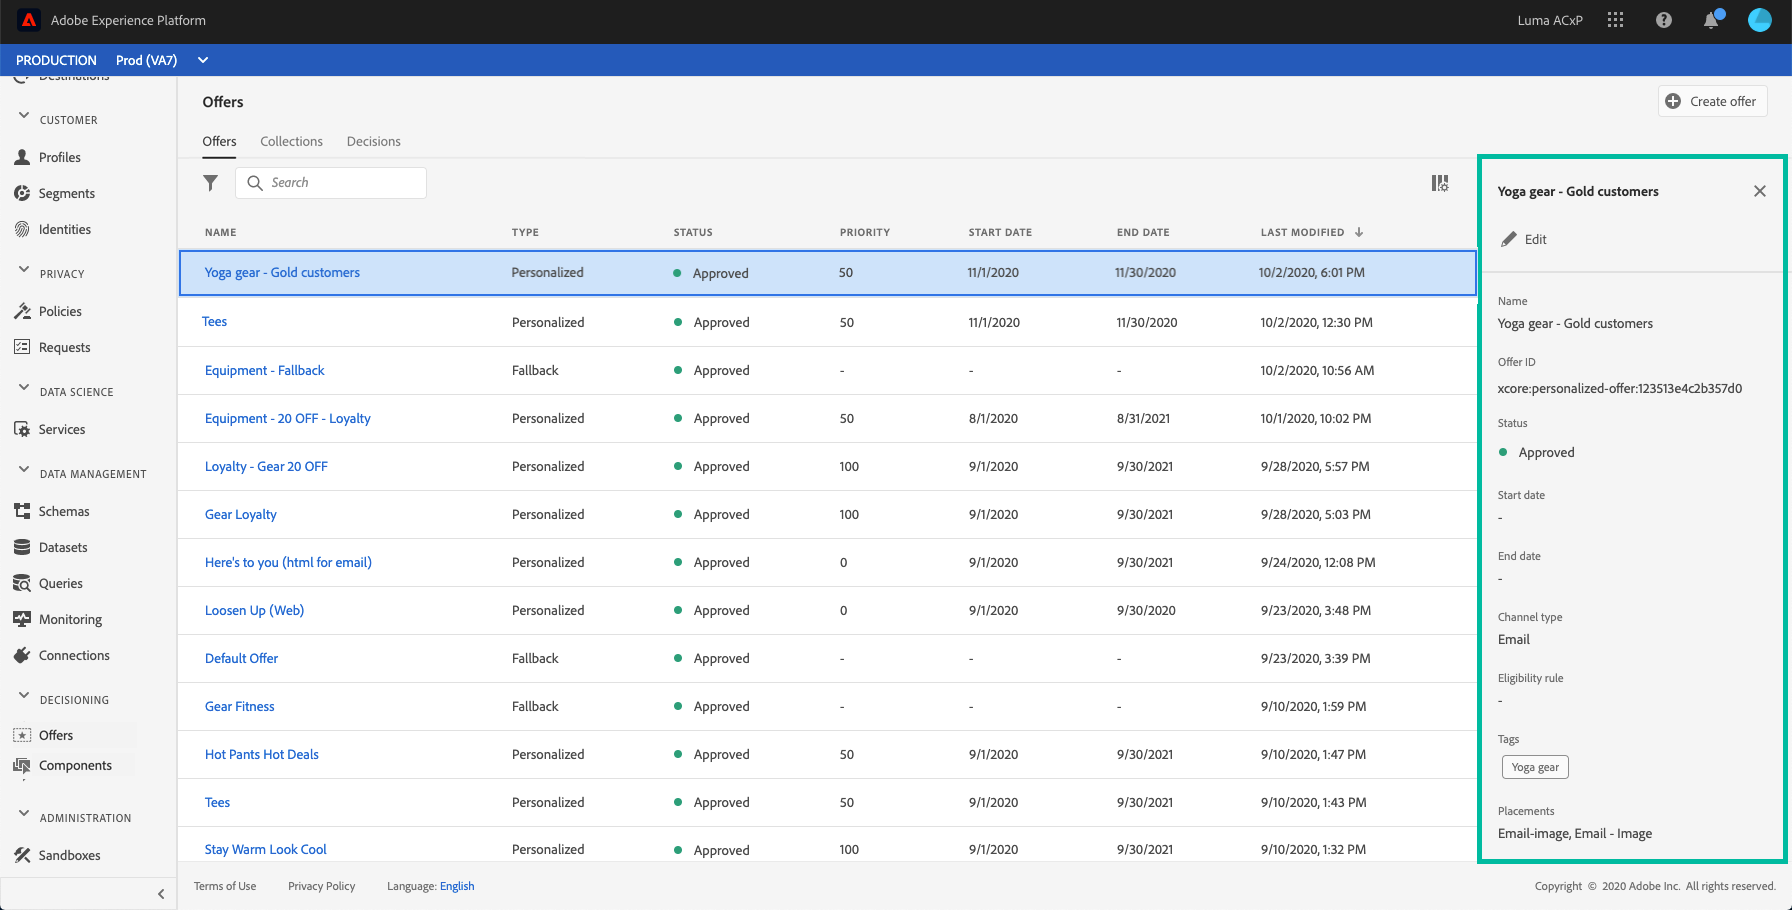
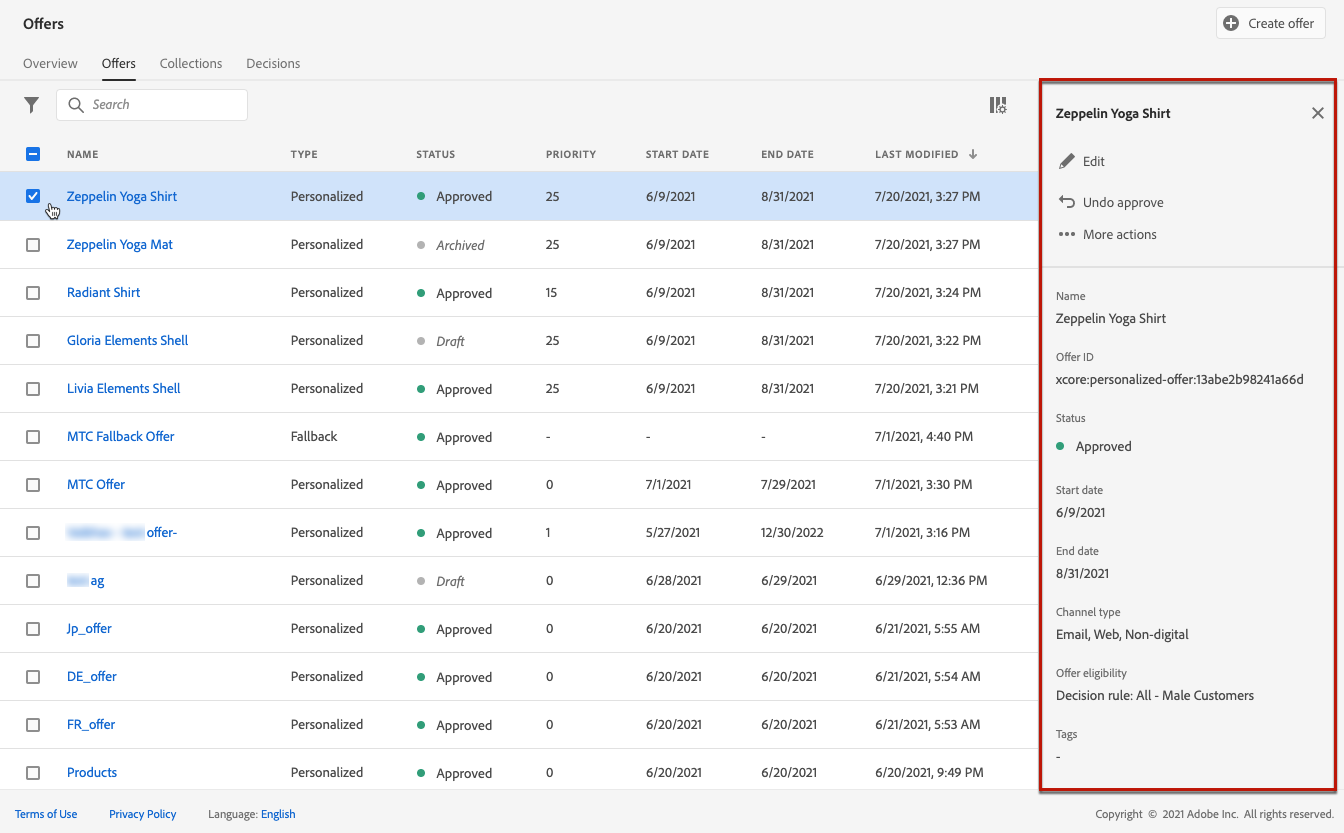
offer + decision lists updates (draft)

diff --git a/help/offer-library/creating-personalized-offers.md b/help/offer-library/creating-personalized-offers.md
@@ -125,7 +125,7 @@ Eligibility rules and constrains allow you to define the conditions under which 
 
     ![](../assets/offer_rule.png)
 
-1. Define the **[!UICONTROL Priority]** of the offer compared to other ones if the user qualifies for more than one offer. The higher an offer's priority will be, the higher its priority will be compared to other offers
+1. Define the **[!UICONTROL Priority]** of the offer compared to other ones if the user qualifies for more than one offer. The higher an offer's priority will be, the higher its priority will be compared to other offers.
 
 1. Specify the offer's **[!UICONTROL Capping]**, meaning the number of times the offer will be presented in total across all users. If the offer has been delivered across all users the number of times you have specified in this field, its delivery will stop.
 
@@ -161,24 +161,46 @@ The offer displays in the list with the **[!UICONTROL Approved]** or **[!UICONTR
 
 It is now ready to be delivered to users.
 
-## Edit the offer {#edit}
+## Offer list {#offer-list}
     
-From the offer list, you can select an offer to display its properties and edit or suppress it.
+From the offer list, you can select the offer to display its properties and edit it. You can also change its status, duplicate the offer, or delete it.
 
 ![](../assets/offer_created.png)
 
-Select **[!UICONTROL Undo approve]** to set the offer status back to draft.
+Select an approved offer and click **[!UICONTROL Undo approve]** to set the offer status back to **[!UICONTROL Draft]**.
 
-The **[!UICONTROL More actions]** button enables the following actions:
-* **[!UICONTROL Duplicate]**: creates an offer with the same properties, representations, eligibility rules and constraints. By default, the new offer has the **[!UICONTROL Draft]** status?
-* **[!UICONTROL Delete]**: removes the offer from the list. This action cannot be undone and the offer is not accessible anymore?
-* **[!UICONTROL Archive]**: set the offer status to **[!UICONTROL Archived]**. The offer is still available from the list, but you need to set its status back to **[!UICONTROL Draft]** or **[!UICONTROL Approved]** to make it available again?
+To set again the status to **[!UICONTROL Approved]**, select the corresponding button that is now displayed.
 
-Once an offer has been created, you can click its name from the list to:
+![](../assets/offer_approve.png)
 
-* Access detailed information.
+The **[!UICONTROL More actions]** button enables the actions described below.
 
-* Monitor all the changes that have been made to it using the **[!UICONTROL Change log]** tab. For more on this, see [Monitoring changes to offers and decisions](../get-started/user-interface.md#monitoring-changes).
+![](../assets/offer_more-actions.png)
+
+* **[!UICONTROL Duplicate]**: creates an offer with the same properties, representations, eligibility rules and constraints. By default, the new offer has the **[!UICONTROL Draft]** status. <!--or the same status? to check-->
+* **[!UICONTROL Delete]**: removes the offer from the list. If the offer is used in one or more collections, it cannot be deleted. You must remove the offer from any collection(s) first.
+
+    >[!WARNING]
+    >
+    >The offer and its content are not accessible anymore. This action cannot be undone. <!--to check-->
+
+* **[!UICONTROL Archive]**: set the offer status to **[!UICONTROL Archived]**. The offer is still available from the list, but you cannot set its status back to **[!UICONTROL Draft]** or **[!UICONTROL Approved]**. You can only duplicate or delete it.
+
+You can also delete or change the status of multiple offers at the same time by selecting the corresponding checkboxes.
+
+![](../assets/offer_multiple-selection.png)
+
+If you want to change the status of several offers whith different statuses, only the relevant statuses will be changed.
+
+![](../assets/offer_change-status.png)
+
+Once an offer has been created, you can click its name from the list.
+
+![](../assets/offer_click-name.png)
+
+This enables you to access detailed information for that offer. Select the **[!UICONTROL Change log]** tab to [monitor all the changes](../get-started/user-interface.md#monitoring-changes) that have been made to the offer.
+
+![](../assets/offer_information.png)
 
 ## Tutorial video {#video}
 

diff --git a/help/offer-activities/create-offer-activities.md b/help/offer-activities/create-offer-activities.md
@@ -102,7 +102,31 @@ It is now ready to be used to deliver offers to customers. You can select it to 
 
 >[!NOTE]
 >
->Once a decision has been created, you can click its name in the list to access detailed information, and vizualise all the changes that have been made to it using the **[!UICONTROL Change log]** tab (see [Offers and decisions changes log](../get-started/user-interface.md#changes-log)). 
+>Once a decision has been created, you can click its name in the list to access detailed information, and vizualise all the changes that have been made to it using the **[!UICONTROL Change log]** tab (see [Offers and decisions changes log](../get-started/user-interface.md#changes-log)).
+
+## Decision list {#dcision-list}
+
+From the decision list, you can select the decision to display its properties and edit it. You can also change its status, duplicate the offer, or delete it.
+
+Select the **[!UICONTROL Edit]** button to go back to the decision edition mode.
+
+Select an activated decision and click **[!UICONTROL Deactivate]** to set the decision status back to **[!UICONTROL Draft]**.
+
+To set again the status to **[!UICONTROL Activated]**, select the corresponding button that is now displayed.
+
+The **[!UICONTROL More actions]** button enables the actions described below.
+
+* **[!UICONTROL Complete]**: set the decision's status to **[!UICONTROL Complete]**, meaning the decision cannot be called anymore. This action is only available for activated decisions. The decision is still available from the list, but you cannot set its status back to **[!UICONTROL Draft]** or **[!UICONTROL Approved]**. You can still duplicate, delete or archive it. <!--to check-->
+* **[!UICONTROL Duplicate]**: creates a decision with the same properties, decision scopes and fallback offer. By default, the new decision has the **[!UICONTROL Draft]** status. <!--or the same status? to check-->
+* **[!UICONTROL Delete]**: removes the decision from the list.
+
+    >[!WARNING]
+    >
+    >The decision and its content are not accessible anymore. This action cannot be undone. <!--to check-->
+
+* **[!UICONTROL Archive]**: set the decision status to **[!UICONTROL Archived]**. The decision is still available from the list, but you cannot set its status back to **[!UICONTROL Draft]** or **[!UICONTROL Approved]**. You can only duplicate or delete it.
+
+You can also delete or change the status of multiple decisions at the same time by selecting the corresponding checkboxes.
 
 ## Tutorial video {#video}
 

diff --git a/help/release-notes.md b/help/release-notes.md
@@ -19,6 +19,40 @@ You can also consult the latest documentation updates [here](documentation-updat
 <table>
 <thead>
 <tr>
+<th><strong>Updated offer list</strong><br/></th>
+</tr>
+</thead>
+<tbody>
+<tr>
+<td>
+<p>
+New actions are now possible from the offer list: you can edit, approve or undo approve, duplicate, delete or archive an offer, as well as delete or change the status of multiple offers at the same time.</p>
+<p>For more information, refer to the <a href="offer-library/creating-personalized-offers.md#offer-list">detailed documentation</a>.</p>
+</td>
+</tr>
+</tbody>
+</table>
+
+<table>
+<thead>
+<tr>
+<th><strong>Updated decision list</strong><br/></th>
+</tr>
+</thead>
+<tbody>
+<tr>
+<td>
+<p>
+New actions are now possible from the decision list: you can edit, activate or deactivate, complete, duplicate, delete or archive an offer, as well as delete or change the status of multiple decisions at the same time.</p>
+<p>For more information, refer to the <a href="offer-activities/create-offer-activities.md#decision-list">detailed documentation</a>.</p>
+</td>
+</tr>
+</tbody>
+</table>
+
+<table>
+<thead>
+<tr>
 <th><strong>AI ranking</strong><br/></th>
 </tr>
 </thead>
